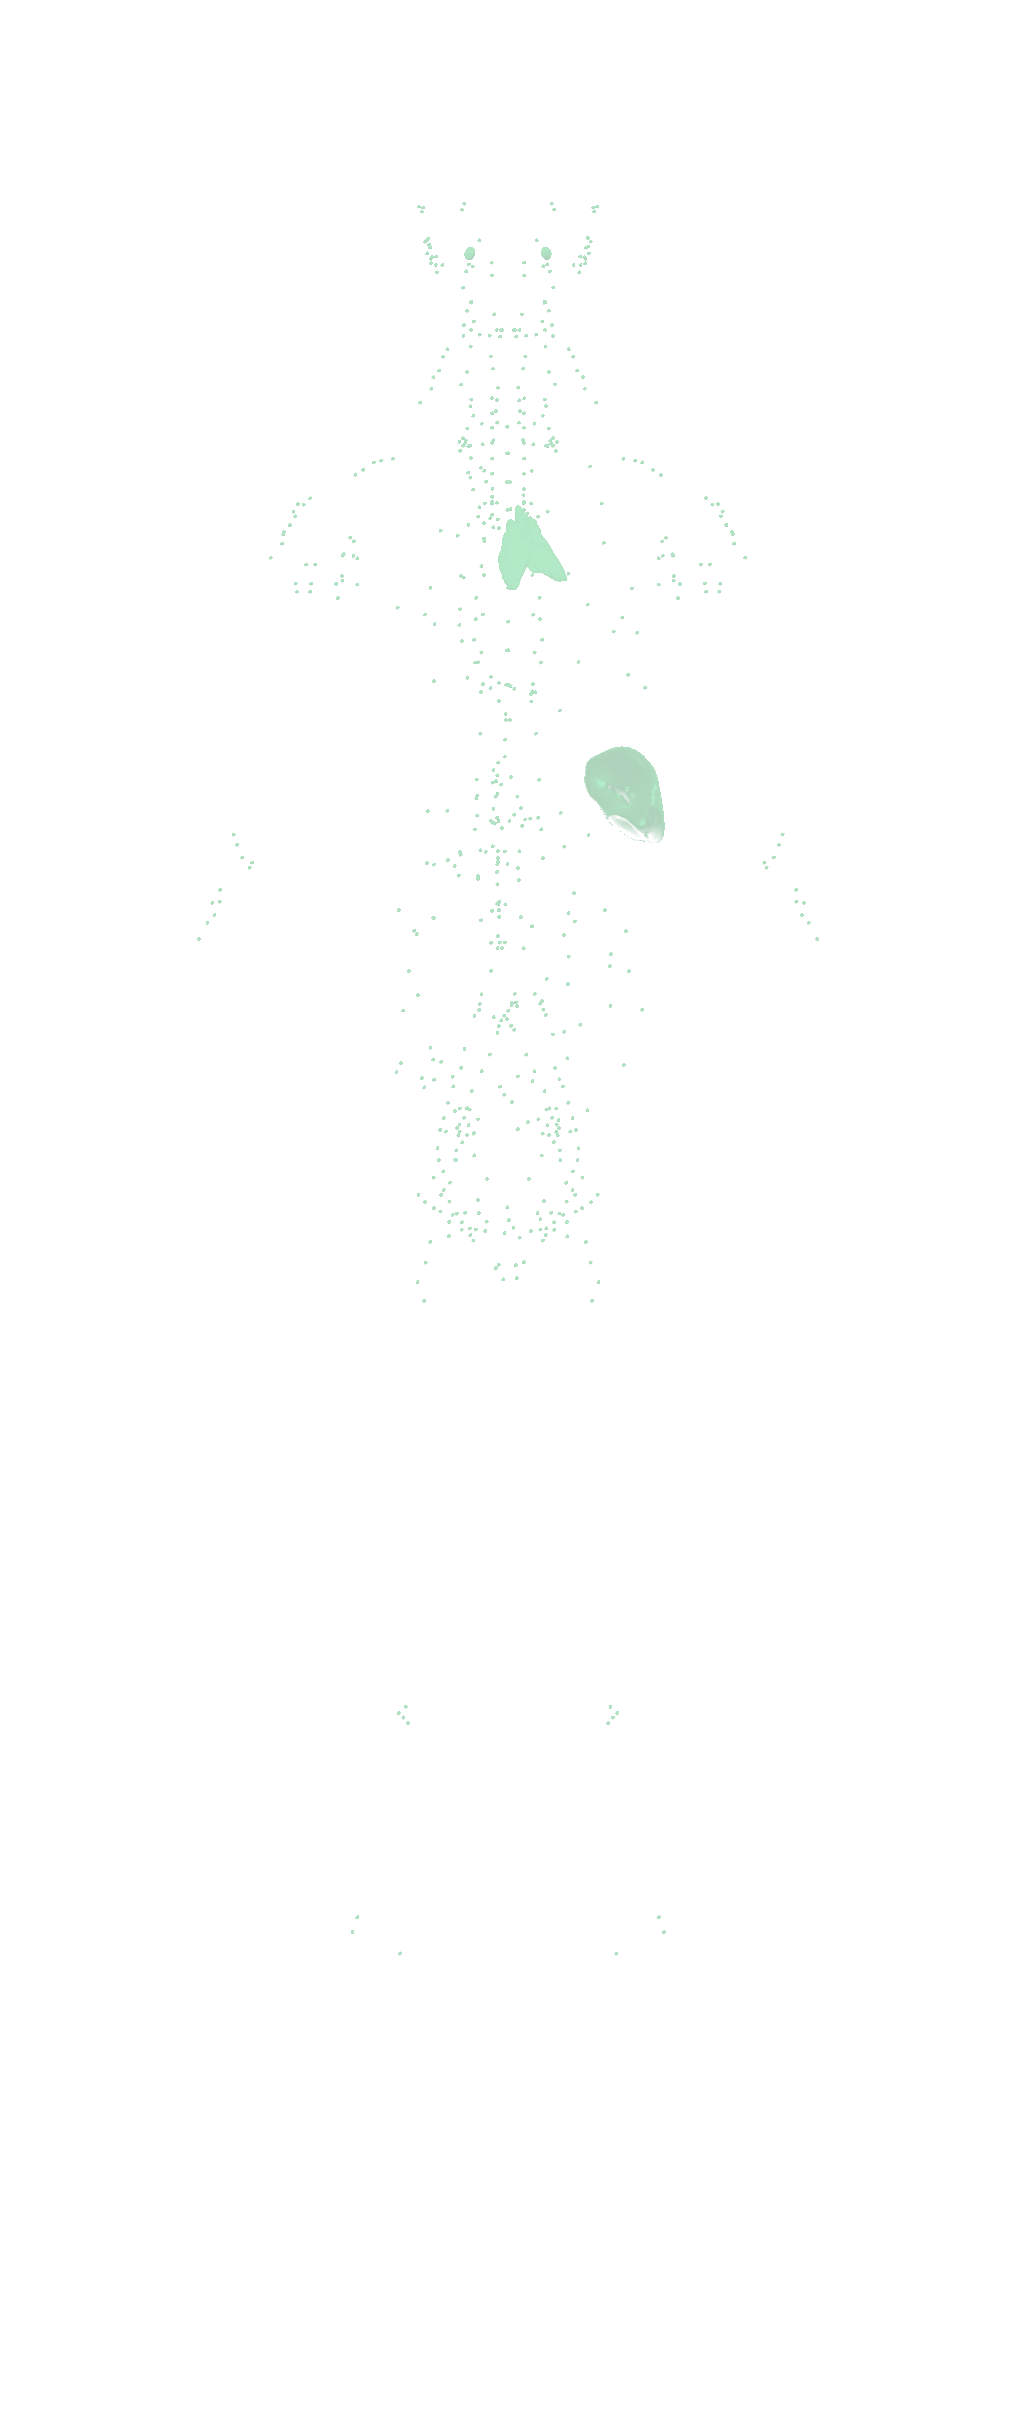
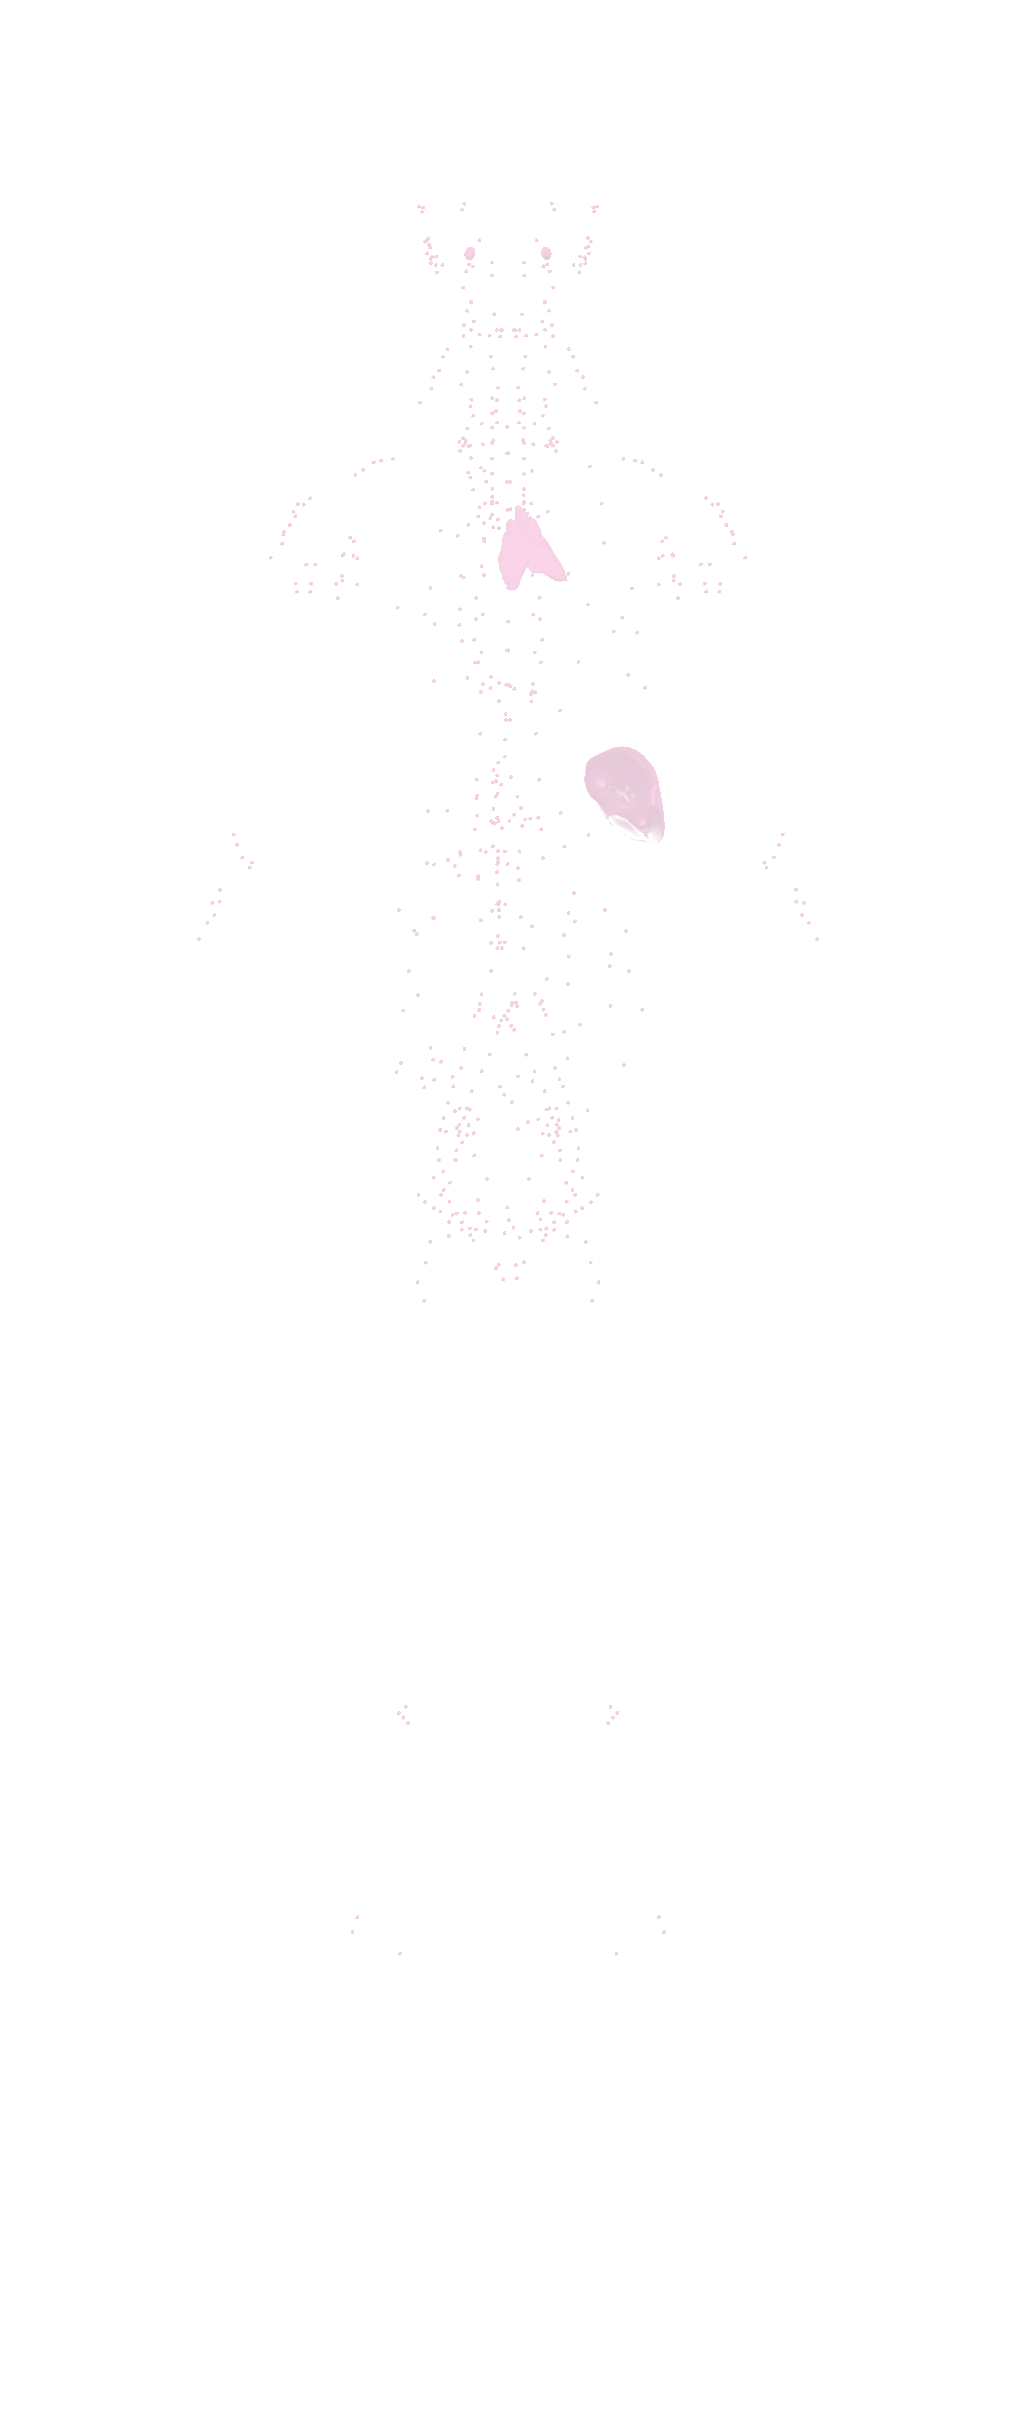
organ systems re-colorized

Changed region(s): [[0.5786, 0.2808, 0.6699, 0.3432], [0.4872, 0.1872, 0.5481, 0.2496]]

diff --git a/src/model/conditions.ts b/src/model/conditions.ts
@@ -42,8 +42,8 @@ export const SYSTEM_META: Record<SystemId, { label: string; color: string }> = {
   digestive:      { label: 'Digestive',      color: '#F97316' },
   respiratory:    { label: 'Respiratory',    color: '#06B6D4' },
   renal:   { label: 'Renal',          color: '#22C55E' },
-  lymphatic:   { label: 'Lymphatic',      color: '#84CC16' },
-  endocrine:    { label: 'Endocrine',      color: '#F472B6' },
+  lymphatic:   { label: 'Lymphatic',      color: '#F472B6' },
+  endocrine:    { label: 'Endocrine',      color: '#84CC16' },
   reproductive:   { label: 'Reproductive',   color: '#C0526A' },
 }
 
@@ -322,21 +322,21 @@ export const CONDITION_RECORDS: Record<string, ConditionRecord[]> = {
     { id: 'r-uti-2', type: 'TREND', label: 'Recurrence log', date: '2020–2024', color: '#22C55E' },
   ],
   thyroid: [
-    { id: 'r-thy-1', type: 'LABS', label: 'TSH / T4', date: '2024-MAR', color: '#F472B6' },
-    { id: 'r-thy-2', type: 'IMAGING', label: 'Thyroid US', date: '2019-JAN', color: '#F472B6' },
-    { id: 'r-thy-3', type: 'TREND', label: 'TSH trend', date: '2017–2024', color: '#F472B6' },
+    { id: 'r-thy-1', type: 'LABS', label: 'TSH / T4', date: '2024-MAR', color: '#84CC16' },
+    { id: 'r-thy-2', type: 'IMAGING', label: 'Thyroid US', date: '2019-JAN', color: '#84CC16' },
+    { id: 'r-thy-3', type: 'TREND', label: 'TSH trend', date: '2017–2024', color: '#84CC16' },
   ],
   vitd: [
-    { id: 'r-vitd-1', type: 'LABS', label: '25-OH Vit D', date: '2024-APR', color: '#F472B6' },
-    { id: 'r-vitd-2', type: 'TREND', label: 'Level trend', date: '2015–2024', color: '#F472B6' },
+    { id: 'r-vitd-1', type: 'LABS', label: '25-OH Vit D', date: '2024-APR', color: '#84CC16' },
+    { id: 'r-vitd-2', type: 'TREND', label: 'Level trend', date: '2015–2024', color: '#84CC16' },
   ],
   lymph1: [
-    { id: 'r-lym-1', type: 'IMAGING', label: 'Neck US', date: '2016-JUN', color: '#84CC16' },
-    { id: 'r-lym-2', type: 'LABS', label: 'CBC / diff', date: '2016-JUN', color: '#84CC16' },
+    { id: 'r-lym-1', type: 'IMAGING', label: 'Neck US', date: '2016-JUN', color: '#F472B6' },
+    { id: 'r-lym-2', type: 'LABS', label: 'CBC / diff', date: '2016-JUN', color: '#F472B6' },
   ],
   mono: [
-    { id: 'r-mono-1', type: 'LABS', label: 'EBV antibodies', date: '2014-SEP', color: '#84CC16' },
-    { id: 'r-mono-2', type: 'IMAGING', label: 'Abdomen US', date: '2014-SEP', color: '#84CC16' },
+    { id: 'r-mono-1', type: 'LABS', label: 'EBV antibodies', date: '2014-SEP', color: '#F472B6' },
+    { id: 'r-mono-2', type: 'IMAGING', label: 'Abdomen US', date: '2014-SEP', color: '#F472B6' },
   ],
   eczema: [
     { id: 'r-ecz-1', type: 'IMAGING', label: 'Skin photos', date: '2023-MAR', color: '#4F46E5' },

diff --git a/src/model/health.ts b/src/model/health.ts
@@ -44,7 +44,7 @@ export const SYSTEM_COLORS: Record<OrgSystem, string> = {
   digestive:       '#F97316',
   respiratory:     '#06B6D4',
   renal:    '#22C55E',
-  lymphatic:    '#84CC16',
-  endocrine:     '#F472B6',
+  lymphatic:    '#F472B6',
+  endocrine:     '#84CC16',
   reproductive:    '#C0526A',
 }

diff --git a/SPEC.md b/SPEC.md
@@ -112,11 +112,11 @@ Layer `00` is the back layer, `10` the front. Legend order matches this order to
 | 05 | `digestive` | Digestive | `#F97316` (orange) | Stomach, intestines, liver |
 | 06 | `respiratory` | Respiratory | `#06B6D4` (cyan) | Lungs, trachea |
 | 07 | `renal` | Renal | `#22C55E` (green) | Kidneys, bladder |
-| 08 | `lymphatic` | Lymphatic | `#84CC16` (lime) | Lymph nodes, spleen |
-| 09 | `endocrine` | Endocrine | `#F472B6` (pink) | Thyroid, pancreas, adrenals |
+| 08 | `lymphatic` | Lymphatic | `#F472B6` (pink) | Lymph nodes, spleen |
+| 09 | `endocrine` | Endocrine | `#84CC16` (lime) | Thyroid, pancreas, adrenals |
 | 10 | `reproductive` | Reproductive | `#C0526A` (rose) | Sex-specific organs |
 
-Colors were chosen to minimize visual conflict when layers overlap on the dark background. The reproductive color was changed from `#7F1D1D` to `#C0526A` in design session 04 for visibility. In July 2026 the endocrine↔muscular and renal↔lymphatic colors were swapped in code; the corresponding PNG layer tints are pending regeneration and temporarily still show the old hues.
+Colors were chosen to minimize visual conflict when layers overlap on the dark background. The reproductive color was changed from `#7F1D1D` to `#C0526A` in design session 04 for visibility. In July 2026: endocrine↔muscular and renal↔lymphatic colors were swapped; then lymphatic↔endocrine were swapped again. Net result: muscular=#D946EF, endocrine=#84CC16, renal=#22C55E, lymphatic=#F472B6. PNG layer tints for these four systems are pending regeneration and temporarily show old hues.
 
 ---
 
